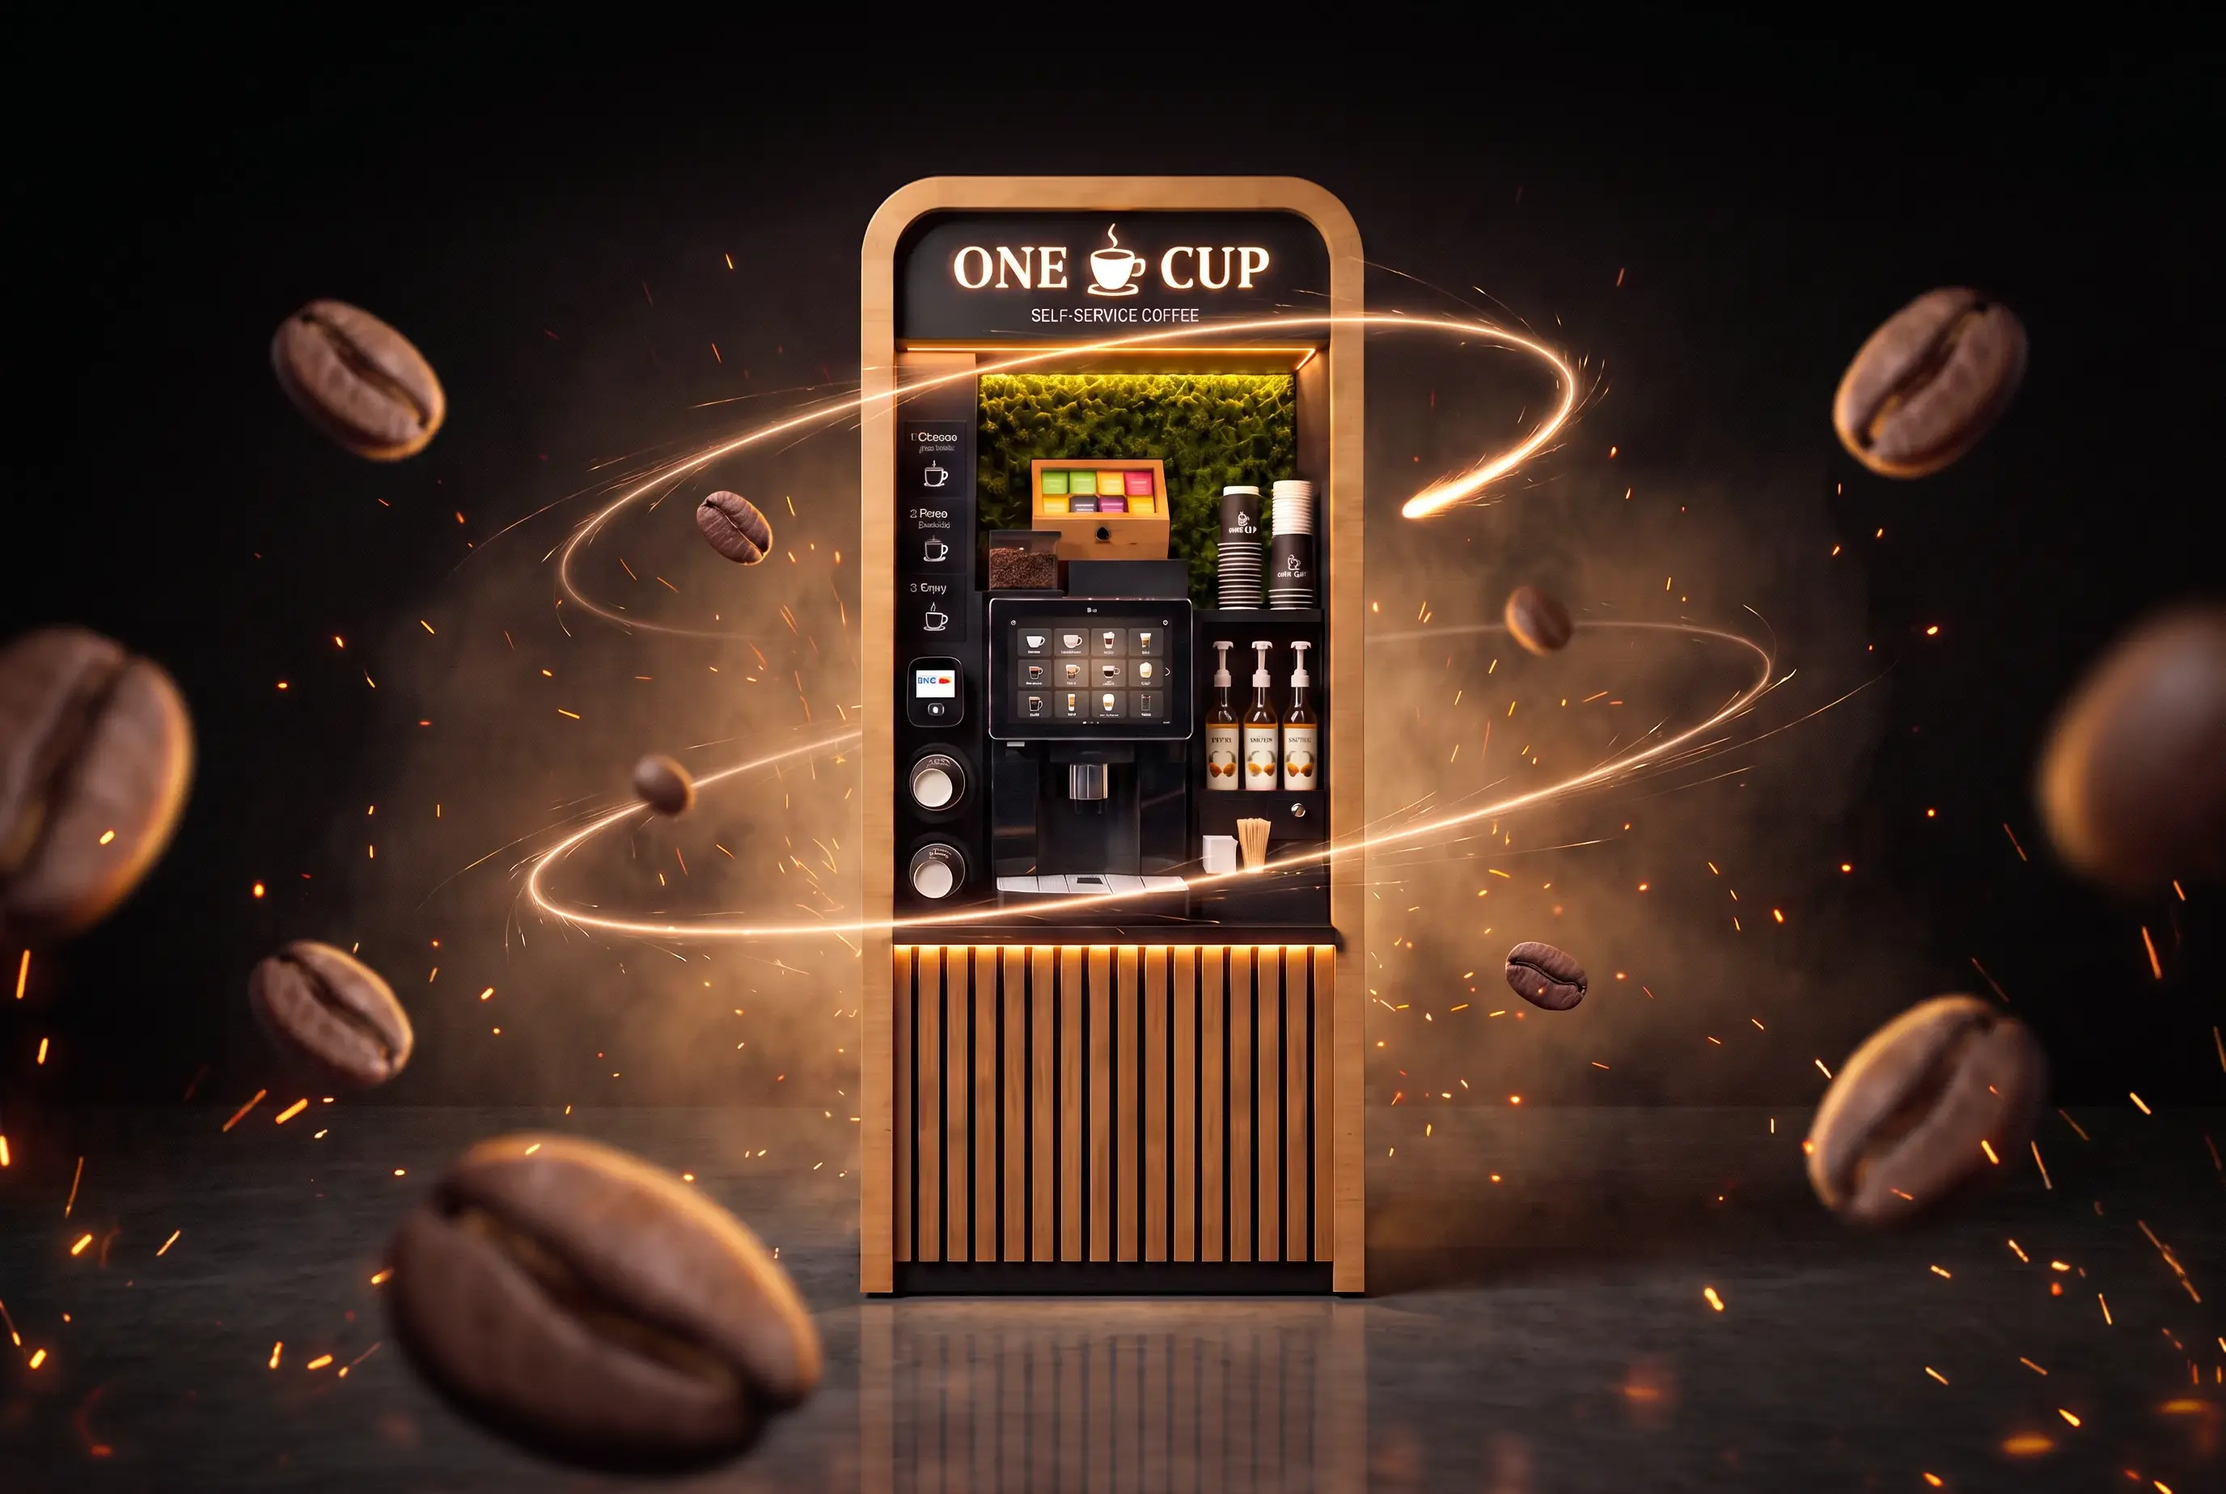
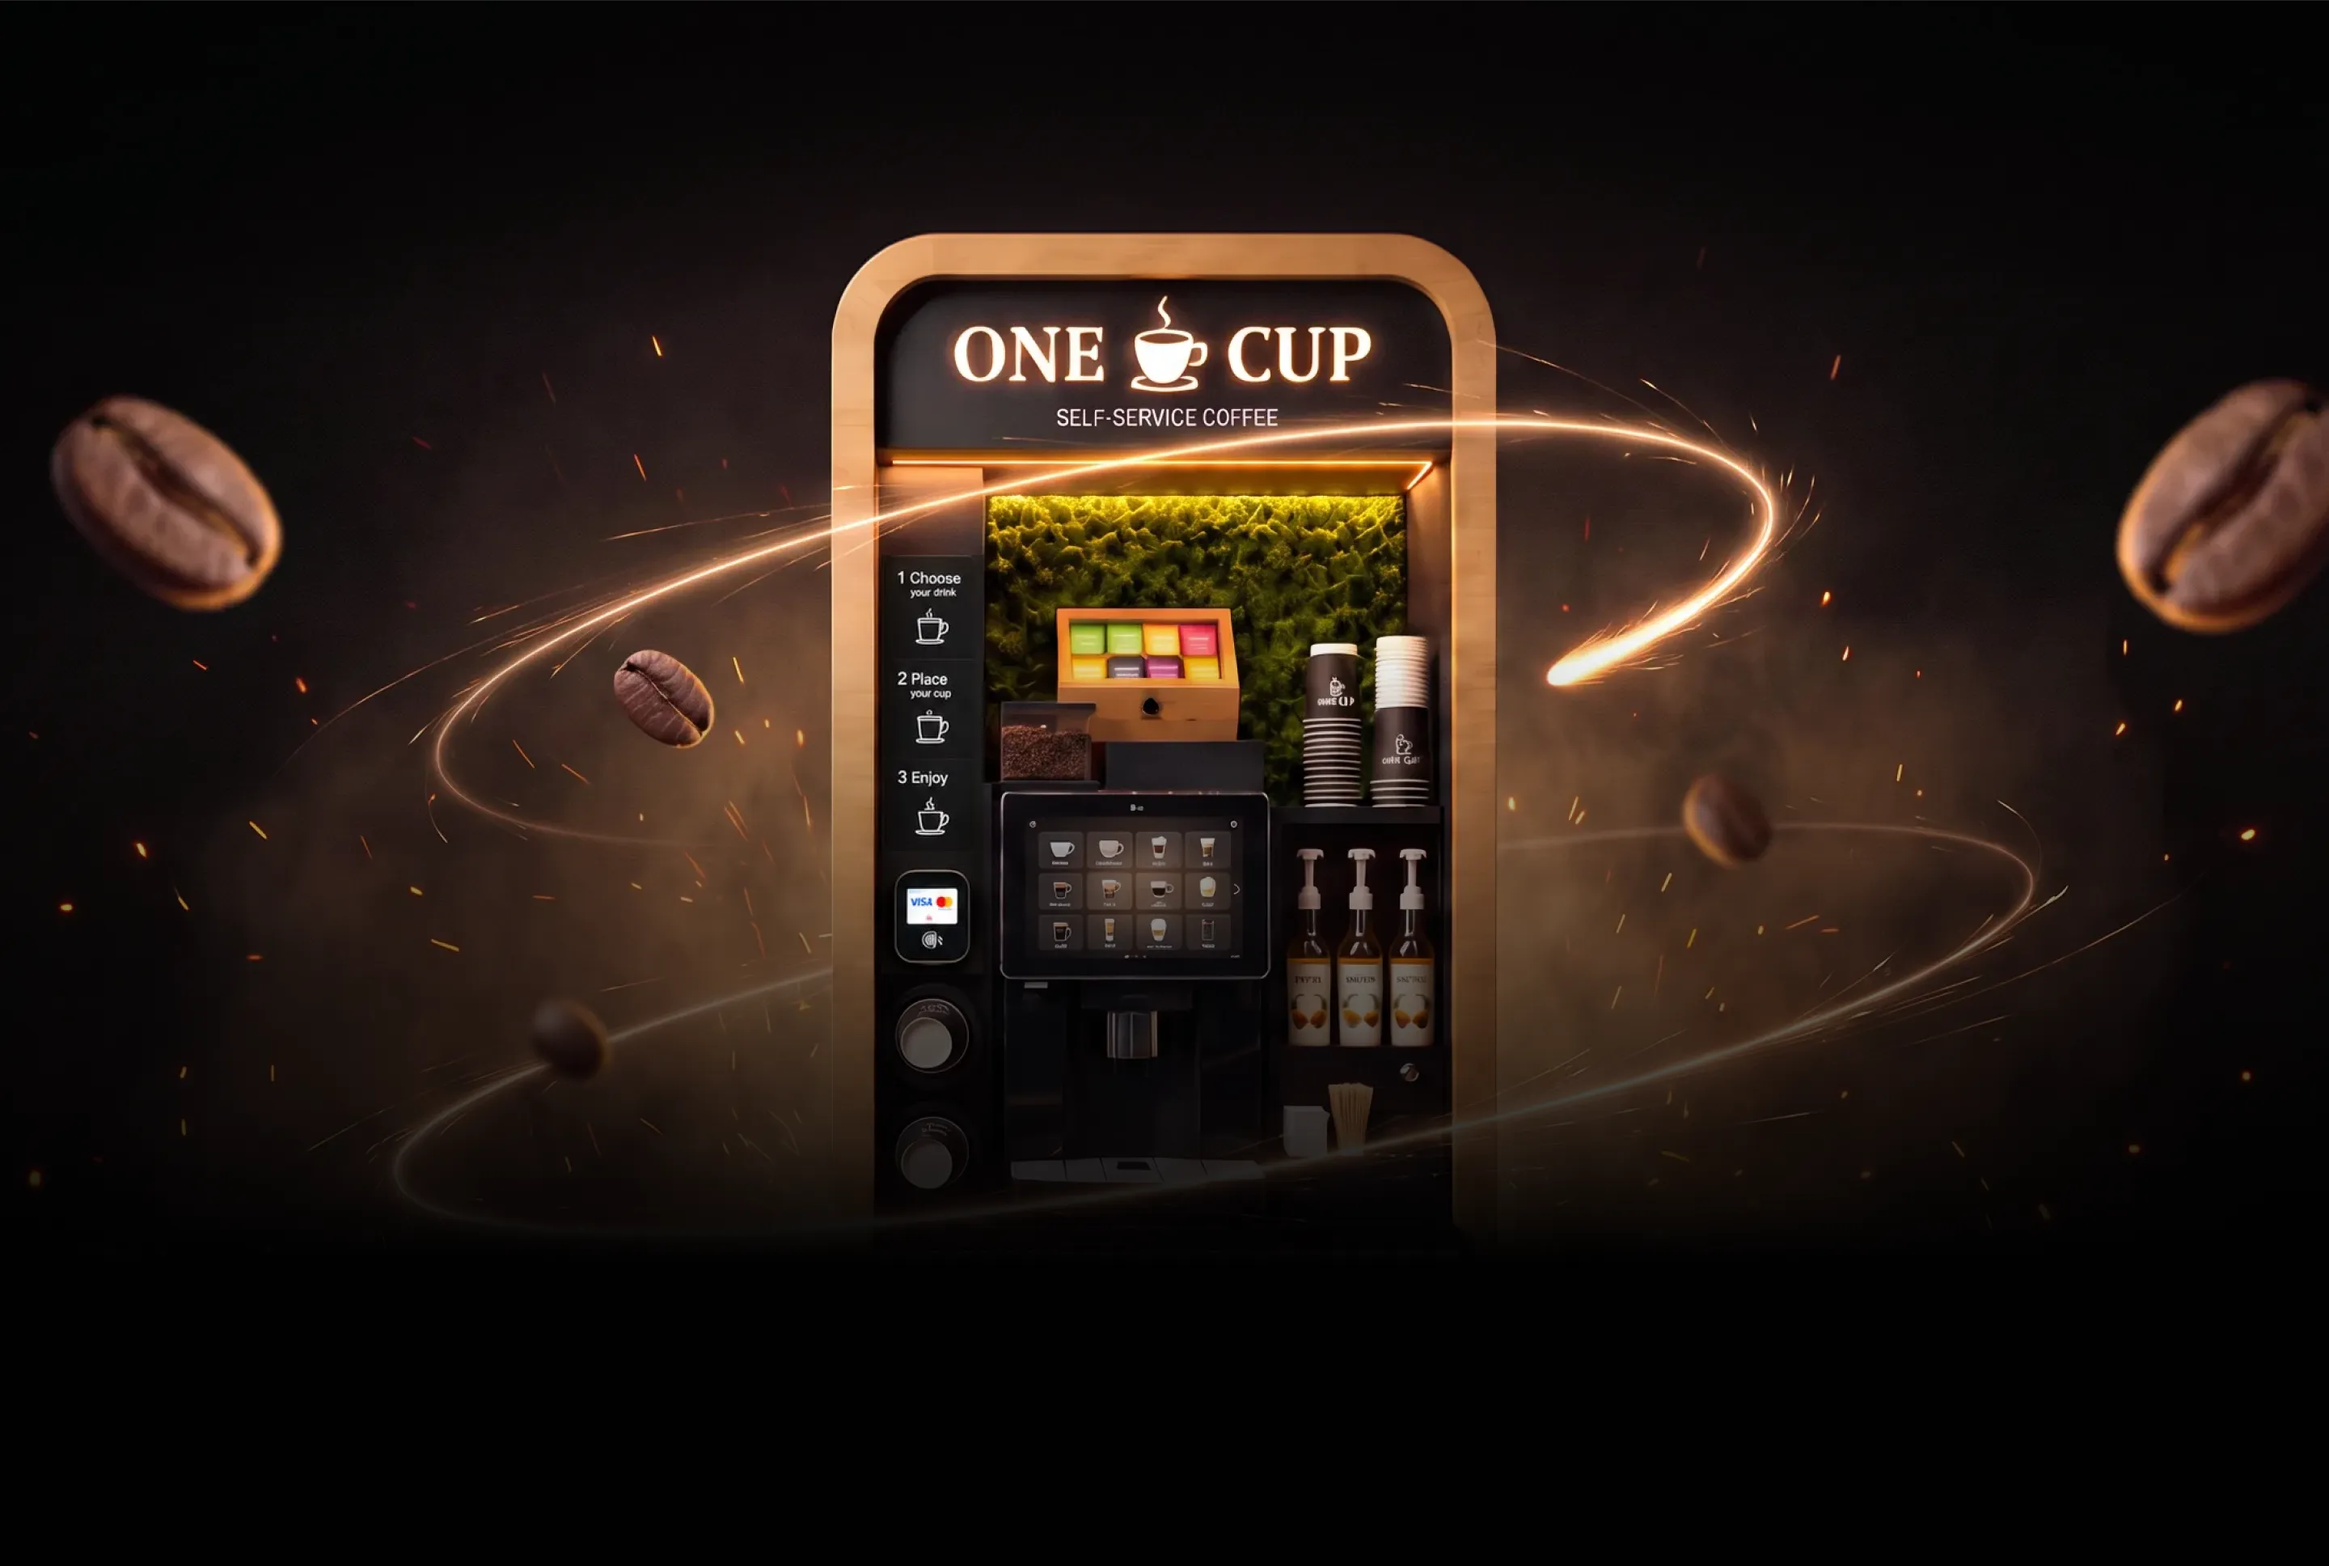
feat(models): two glass cards with own CTAs (Figma 317:365)
Replaces the radio choice and shared CTA; new background render,
removes the orphaned note copy and radio script.

diff --git a/src/theme/onecup/assets/css/sections/models.css b/src/theme/onecup/assets/css/sections/models.css
@@ -1,4 +1,4 @@
-/* Two models — Figma 259:2181 (home v4): quiz-style choice over the station render. */
+/* Two models — Figma 317:365 (home v4): two glass cards over the station render. */
 .oc-models {
   position: relative;
   display: flex;
@@ -7,135 +7,74 @@
   gap: var(--oc-space-48);
   min-height: 968px;
   padding: var(--oc-space-96) var(--oc-gutter);
+  background: var(--oc-bg-dark);
   overflow: hidden;
   isolation: isolate;
 }
 
 .oc-models__bg {
   position: absolute;
-  inset: 0;
-  z-index: -2;
-  width: 100%;
-  height: 100%;
-  object-fit: cover;
-  object-position: center top;
-}
-
-.oc-models::before {
-  /* Figma: transparent at 39% → #000001 at 81% */
-  content: "";
-  position: absolute;
-  inset: 0;
+  top: 50%;
+  left: 50%;
   z-index: -1;
-  background: linear-gradient(180deg, transparent 39.4%, var(--oc-hero-v4-bg) 80.8%);
+  width: 1440px;
+  height: 968px;
+  object-fit: cover;
+  translate: -50% -50%;
 }
 
 .oc-models__head {
   display: grid;
   gap: var(--oc-space-16);
-  color: var(--oc-text-cream);
+  color: var(--oc-choice-text);
 }
 
-.oc-models__choices {
+.oc-models__eyebrow {
+  font: 600 14px/1.45 var(--oc-font);
+  opacity: 0.7;
+}
+
+.oc-models__title {
+  margin: 0;
+  font: 600 52px/1.08 var(--oc-font);
+}
+
+.oc-models__cards {
   display: grid;
   grid-template-columns: 1fr 1fr;
-  gap: var(--oc-space-16);
-  margin: 0;
-  padding: 0;
-  border: 0;
+  gap: var(--oc-space-32);
 }
 
-.oc-choice {
-  position: relative;
+.oc-model {
   display: flex;
-  gap: var(--oc-space-20);
+  flex-direction: column;
+  align-items: flex-start;
   padding: var(--oc-space-32);
-  border: 2px solid var(--oc-choice-line);
+  border: 3px solid var(--oc-choice-line);
   border-radius: var(--oc-radius-24);
   background: var(--oc-choice-bg);
-  color: var(--oc-text-cream);
-  cursor: pointer;
+  color: var(--oc-choice-text);
   -webkit-backdrop-filter: blur(15px);
   backdrop-filter: blur(15px);
-  transition: border-color var(--oc-dur) var(--oc-ease);
 }
 
-.oc-choice:hover {
-  border-color: var(--oc-choice-radio);
+.oc-model--accent {
+  border: 2px solid var(--oc-accent);
 }
 
-.oc-choice:has(input:checked) {
-  border-color: var(--oc-accent);
-}
-
-.oc-choice input {
-  position: absolute;
-  opacity: 0;
-  pointer-events: none;
-}
-
-.oc-choice:has(input:focus-visible) {
-  outline: 2px solid var(--oc-text-cream);
-  outline-offset: 4px;
-}
-
-.oc-choice__radio {
-  display: grid;
-  place-items: center;
-  flex: none;
-  width: 24px;
-  height: 24px;
-  margin: 6px;
-  border: 2px solid var(--oc-choice-radio);
-  border-radius: var(--oc-radius-12);
-  transition:
-    background-color var(--oc-dur) var(--oc-ease),
-    border-color var(--oc-dur) var(--oc-ease);
-}
-
-.oc-choice__radio svg {
-  fill: none;
-  stroke: var(--oc-text-on-dark);
-  stroke-width: 2.2;
-  stroke-linecap: round;
-  stroke-linejoin: round;
-  opacity: 0;
-}
-
-.oc-choice:has(input:checked) .oc-choice__radio {
-  border-color: var(--oc-accent);
-  background: var(--oc-accent);
-}
-
-.oc-choice:has(input:checked) .oc-choice__radio svg {
-  opacity: 1;
-}
-
-.oc-choice__text {
-  display: grid;
-  gap: var(--oc-space-12);
-}
-
-.oc-choice__title {
+.oc-model__title {
+  margin: 0 0 var(--oc-space-8);
   font: var(--oc-h4);
 }
 
-.oc-choice__desc {
+.oc-model__text {
+  margin: 0 0 var(--oc-space-32);
   font: var(--oc-body-16);
   opacity: 0.5;
 }
 
-.oc-models__foot {
-  display: flex;
-  align-items: center;
-  justify-content: space-between;
-  gap: var(--oc-space-24);
-}
-
-.oc-models__foot p {
-  margin: 0;
-  font: var(--oc-body-16);
-  color: var(--oc-text-muted-dark);
+.oc-model__btn--lg {
+  font: 600 16px/24px var(--oc-font);
 }
 
 @media (max-width: 1100px) {
@@ -144,20 +83,26 @@
     padding: 360px var(--oc-space-24) var(--oc-space-64);
   }
 
-  .oc-models__choices {
-    grid-template-columns: 1fr;
+  .oc-models__bg {
+    top: 0;
+    height: 100%;
+    translate: -50% 0;
   }
 
-  .oc-choice {
+  .oc-models__title {
+    font-size: 36px;
+  }
+
+  .oc-models__cards {
+    grid-template-columns: 1fr;
+    gap: var(--oc-space-16);
+  }
+
+  .oc-model {
     padding: var(--oc-space-24);
   }
 
-  .oc-choice__title {
+  .oc-model__title {
     font: var(--oc-h5);
-  }
-
-  .oc-models__foot {
-    flex-direction: column;
-    align-items: flex-start;
   }
 }

diff --git a/src/theme/onecup/assets/js/main.js b/src/theme/onecup/assets/js/main.js
@@ -79,12 +79,6 @@
     update();
   });
 
-  /* Two models: the CTA follows the chosen model */
-  const cta = $("[data-model-cta]");
-  $$('input[name="model"]').forEach((r) =>
-    r.addEventListener("change", () => cta && (cta.textContent = r.dataset.cta)),
-  );
-
   /* Sliders: buttons scroll by one card */
   $$(".oc-slider").forEach((s) => {
     const track = $(".oc-slider__track", s);
@@ -252,11 +246,10 @@
     }),
   );
 
-  /* Lists stagger in: calc card, model choices, FAQ, contact rows, footer, buy-page lists */
+  /* Lists stagger in: calc card, model cards, FAQ, contact rows, footer, buy-page lists */
   [
     [".oc-calc", ".oc-calc__card"],
-    [".oc-models__choices", ".oc-choice"],
-    [".oc-models", ".oc-models__foot"],
+    [".oc-models__cards", ".oc-model"],
     [".oc-faq__list", ".oc-faq__item"],
     [".oc-contact__list", "li"],
     [".oc-footer", ".oc-footer > * > *"],

diff --git a/src/config/tokens.css b/src/config/tokens.css
@@ -33,7 +33,7 @@
   --oc-calc-knob-halo: rgb(255 255 255 / 0.12);
   --oc-choice-bg: rgb(239 235 227 / 0.04);
   --oc-choice-line: rgb(239 235 227 / 0.15);
-  --oc-choice-radio: rgb(239 235 227 / 0.3);
+  --oc-choice-text: #efebe3;
   /* Buy page (Figma 266:4358) */
   --oc-text-dim: rgb(255 255 255 / 0.6);
   --oc-text-soft: rgb(229 226 221 / 0.6);

diff --git a/docs/DESIGN.md b/docs/DESIGN.md
@@ -19,7 +19,7 @@ The design project (research, brief, agents) is `../OneCup/`. It stays outside t
 | 2   | About OneCup                  | 245:651    |
 | 3   | Revenue calculator            | 246:741    |
 | 4   | How it works (4 steps)        | 238:271    |
-| 5   | Two models (quiz choice)      | 259:2181   |
+| 5   | Two models (glass cards)      | 317:365    |
 | 6   | Where it's installed (slider) | 238:347    |
 | 7   | FAQ                           | 238:387    |
 | 8   | Already running               | 238:411    |
@@ -62,7 +62,7 @@ Reference: https://www.coffee-tech.com (Webflow + GSAP, ScrollTrigger, SplitText
 | Blocks `[data-reveal]`  | Fade up 40 px (power2.out, 0.8 s)                                                                                                             |
 | Sliders                 | Cards stagger in; buttons scroll one card; image zooms on hover                                                                               |
 | Calculator              | Range input updates the monthly revenue live                                                                                                  |
-| Two models              | Radio cards; the CTA label follows the chosen model                                                                                           |
+| Two models              | Two glass cards, each with its own request button                                                                                             |
 | Marquee                 | Loops; speed and direction follow scroll velocity                                                                                             |
 | Links / buttons         | Underline grows from the left; buttons change fill                                                                                            |
 
